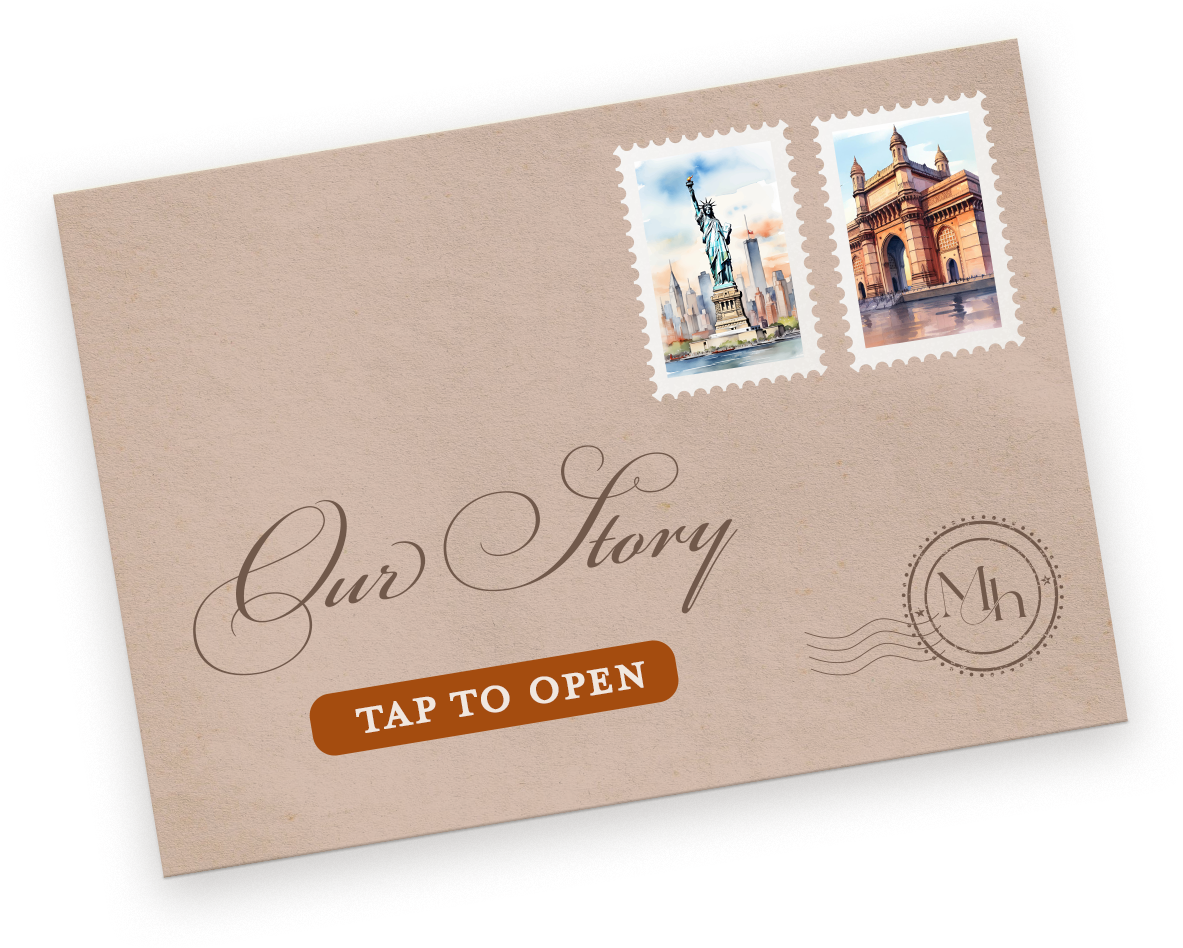
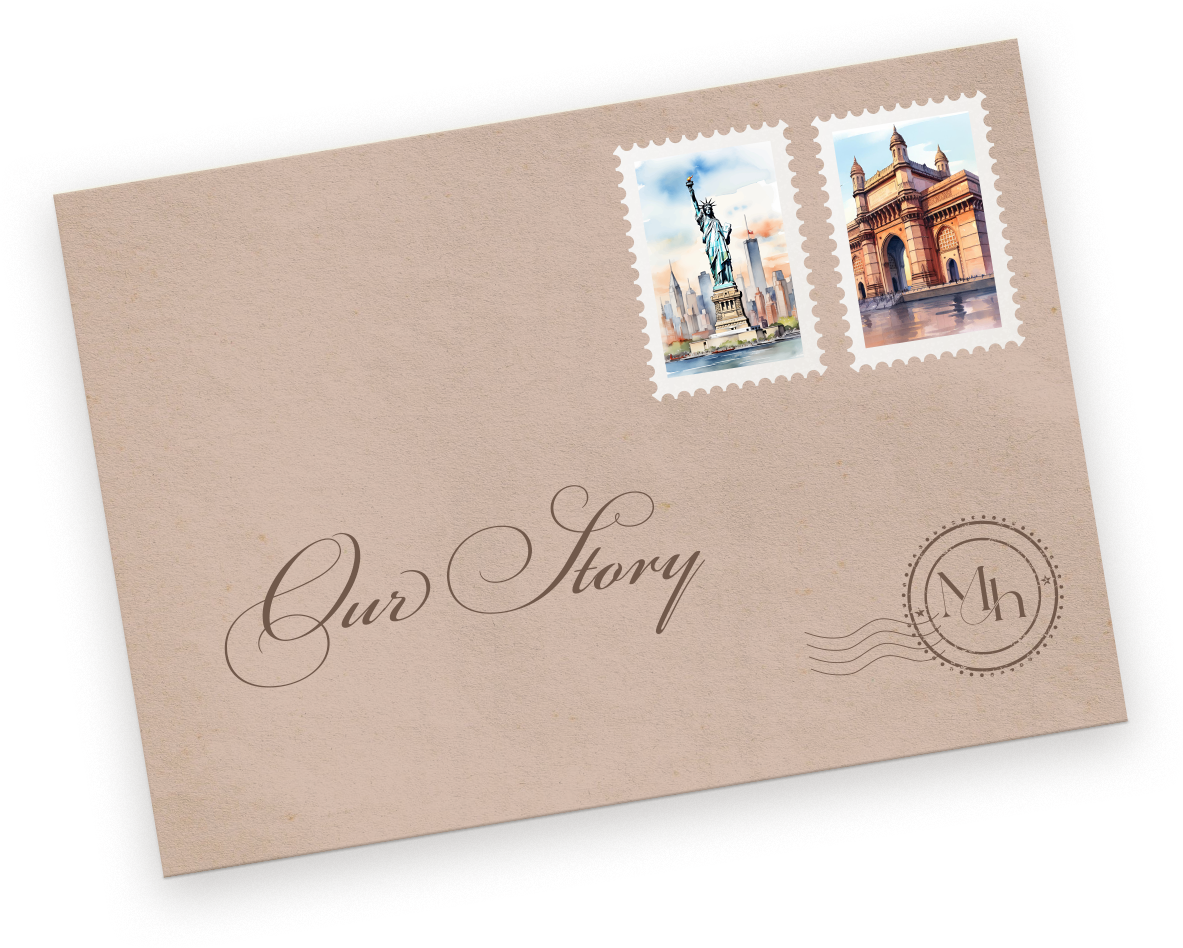
chanegin the code

diff --git a/index.html b/index.html
@@ -238,6 +238,53 @@
                 );
         }
 
+        .envelope-wrapper {
+            position: relative;
+        }
+
+        .envelope-tap-badge {
+            position: absolute;
+
+            width: 44%;
+            height: auto;
+
+            left: 12%;
+            top: 66%;
+
+            z-index: 2;
+
+            transform:
+                rotate(-4deg)
+                scale(1);
+
+            cursor: pointer;
+
+            filter:
+                drop-shadow(
+                    0 8px 14px
+                    rgba(0, 0, 0, 0.28)
+                );
+
+            animation:
+                tapPulse
+                1.8s
+                ease-in-out
+                infinite;
+
+            transition:
+                filter 0.3s ease;
+        }
+
+        .envelope-tap-badge:hover {
+
+            filter:
+                drop-shadow(
+                    0 10px 18px
+                    rgba(0, 0, 0, 0.35)
+                );
+
+        }
+
 
         /* =========================================
            NOTE
@@ -344,6 +391,70 @@
             transform:
                 rotate(-4deg)
                 scale(1.02);
+        }
+
+
+        /* =========================================
+           TAP TO OPEN BADGE (separate popping layer)
+        ========================================= */
+
+        .tap-badge {
+            position: absolute;
+
+            width: 46%;
+            height: auto;
+
+            left: 9%;
+            top: 60%;
+
+            z-index: 2;
+
+            transform:
+                rotate(-4deg)
+                scale(1);
+
+            cursor: pointer;
+
+            filter:
+                drop-shadow(
+                    0 8px 14px
+                    rgba(0, 0, 0, 0.28)
+                );
+
+            animation:
+                tapPulse
+                1.8s
+                ease-in-out
+                infinite;
+
+            transition:
+                filter 0.3s ease;
+        }
+
+        .tap-badge:hover {
+
+            filter:
+                drop-shadow(
+                    0 10px 18px
+                    rgba(0, 0, 0, 0.35)
+                );
+
+        }
+
+        @keyframes tapPulse {
+
+            0%, 100% {
+                transform:
+                    rotate(-4deg)
+                    scale(1);
+            }
+
+            50% {
+                transform:
+                    rotate(-4deg)
+                    scale(1.07);
+            }
+
         }
 
 
@@ -1006,6 +1117,20 @@
                 margin-top: 30px;
             }
 
+            .tap-badge {
+                width: 48%;
+
+                left: 8%;
+                top: 58%;
+            }
+
+            .envelope-tap-badge {
+                width: 46%;
+
+                left: 10%;
+                top: 64%;
+            }
+
             .vinyl {
                 width: 35%;
 
@@ -1127,6 +1252,44 @@
                 transform:
                     rotate(-3deg)
                     scale(1.02);
+            }
+
+            .tap-badge {
+                width: 38%;
+
+                left: 21%;
+                top: 70%;
+
+                transform:
+                    rotate(-3deg)
+                    scale(1);
+            }
+
+            .envelope-tap-badge {
+                width: 48%;
+
+                left: 9%;
+                top: 62%;
+
+                transform:
+                    rotate(-3deg)
+                    scale(1);
+            }
+
+            @keyframes tapPulse {
+
+                0%, 100% {
+                    transform:
+                        rotate(-3deg)
+                        scale(1);
+                }
+
+                50% {
+                    transform:
+                        rotate(-3deg)
+                        scale(1.07);
+                }
+
             }
 
             .envelope-section {
@@ -1303,6 +1466,13 @@
                         alt="Envelope with photo"
                     >
 
+                    <!-- <img
+                        class="envelope-tap-badge"
+                        id="envelopeTapBadge"
+                        src="./tap to open.png"
+                        alt="Tap to open"
+                    > -->
+
                 </div>
 
             </section>
@@ -1335,6 +1505,14 @@
                         class="post-card"
                         src="./post card.png"
                         alt="Our Story"
+                        onclick="openStory()"
+                    >
+
+                    <img
+                        class="tap-badge"
+                        id="tapBadge"
+                        src="./tap to open.png"
+                        alt="Tap to open"
                         onclick="openStory()"
                     >
 
@@ -1836,6 +2014,11 @@
                 ".story-card"
             );
 
+        const tapBadge =
+            document.getElementById(
+                "tapBadge"
+            );
+
         let currentStory = 0;
 
 
@@ -1847,6 +2030,14 @@
 
             document.body.style.overflow =
                 "hidden";
+
+            // stop the pulse once the guest has opened the story
+            if (tapBadge) {
+
+                tapBadge.style.animation =
+                    "none";
+
+            }
 
             updateStorySlider();
 
